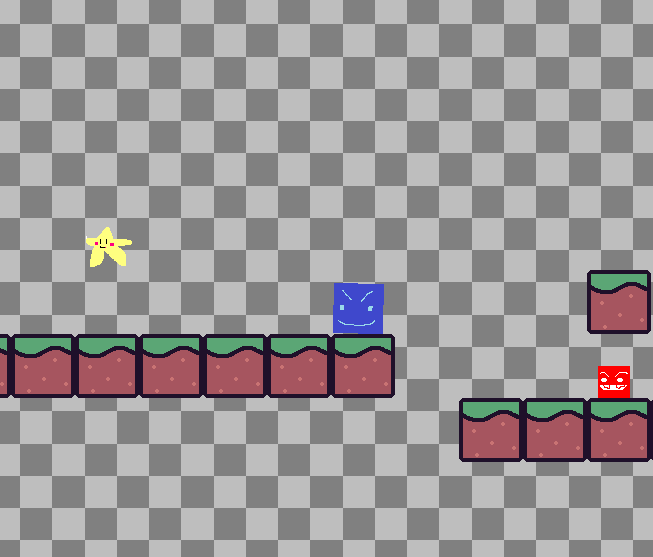
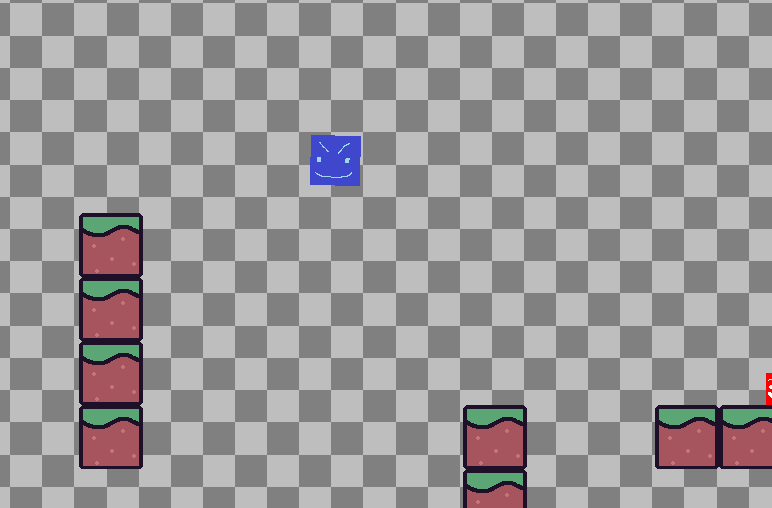
GITBOOK-128: change request with no subject merged in GitBook

diff --git a/3-testing/3.3-checking-development-tests.md b/3-testing/3.3-checking-development-tests.md
@@ -10,10 +10,15 @@ They could be plucked from the tests in your dev cycles, or be new tests that ru
 
 <figure><img src="../.gitbook/assets/image (27).png" alt=""><figcaption><p>Updated 1st level</p></figcaption></figure>
 
+## Cycle 2
+
 ## Tests
 
-| Test | Instructions | What I expect           | Pass/Fail |
-| ---- | ------------ | ----------------------- | --------- |
-|      | Do thing     | What success looks like | Pass      |
+| Test | Instructions              | What I expect                     | Pass/Fail |
+| ---- | ------------------------- | --------------------------------- | --------- |
+| 1    | Press space while airbron | the player preforms a double jump | Pass      |
 
 ## Evidence
+
+<figure><img src="../.gitbook/assets/image.png" alt=""><figcaption><p>Height only achivabe by a double jump</p></figcaption></figure>
+

diff --git a/design-and-development/cycle-1-6.md b/design-and-development/cycle-1-6.md
@@ -77,5 +77,5 @@ scene("game", () => {
 
 ### Evidence
 
-<figure><img src="../.gitbook/assets/image (1).png" alt=""><figcaption></figcaption></figure>
+<figure><img src="../.gitbook/assets/image (1) (3).png" alt=""><figcaption></figcaption></figure>
 
